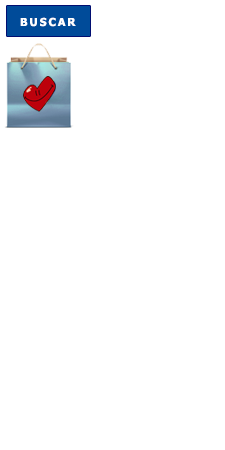
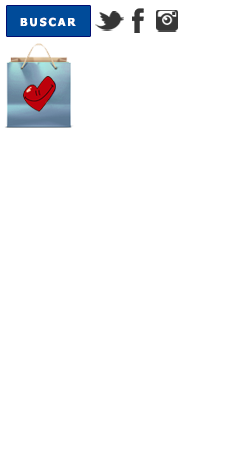
index aacc finalizado

Changed region(s): [[0.6844, 0.0, 0.8089, 0.0933], [0.4356, 0.0, 0.56, 0.0933], [0.5911, 0.0, 0.6533, 0.0933]]

diff --git a/aacc/arquivos/css-aacc-general.css b/aacc/arquivos/css-aacc-general.css
@@ -6,11 +6,12 @@
 /* CONTAINER */
 
 /* clearfix */
+
 .clearfix:before, .clearfix:after { content: ""; display: table; }
 .clearfix:after { clear: both; }
 .clearfix { *zoom: 1; }
-/* end clearfix */
 
+/* end clearfix */
 
 body{font-family: Tahoma, 'sans-serif'; font-size: 12px;}
 h1{font-size: 20px;}
@@ -20,13 +21,12 @@ h4{font-size: 11px;}
 
 a{color:#343434; text-decoration: none;}
 
-.container{background: url('bg-header-top.jpg') no-repeat center top;}
+.container-bg-top{background: url('bg-header-top.jpg') no-repeat center top;}
 .icons{background: url('icons.png') no-repeat;}
-
 
 /* HEADER */
 
-.header{padding: 30px 0; width: 1000px; margin:0 auto;}
+.header{padding: 30px 0 10px; width: 990px; margin:0 auto;}
 .header-content{margin-bottom: 20px;}
 	.header-content .logo-header{float: left;}
 		.logo-header .logo{}	
@@ -46,9 +46,9 @@ a{color:#343434; text-decoration: none;}
 
 /* nav header */
 
-.navegador{width: 1000px; margin: 0 auto;}
+.navegador{width: 990px; margin: 0 auto;}
 .navegador li{float: left;}
-.navegador a{padding: 7px 27px; color: #fff; text-transform: uppercase; font-size: 14px; float: left; margin: 0 2px;}
+.navegador a{padding: 7px 26px; color: #fff; text-transform: uppercase; font-size: 14px; float: left; margin: 0 2px;}
 .navegador .first{margin-left: 0;}
 .navegador .last{margin-right: 0; padding: 7px 31px;}
 .navegador .last{padding/**\*/:7px 29px\9;}
@@ -59,7 +59,52 @@ a{color:#343434; text-decoration: none;}
 .navegador .voluntarios{background: #6a47ba;}
 .navegador .blog{background: #ca51c6;}
 
-
 /* content */
 
-.content{ margin:0 auto; width: 1000px; padding: 30px 0;}
+.content{ margin:0 auto; width: 990px; padding: 0 0 30px;}
+	.banner-header{width: 990px;}
+	.vitrine{margin: 30px 0;}
+		.tab-navegacao{}
+		.tab-navegacao li{float: left; padding: 6px 159px 6px 62px; text-align: left; text-transform: uppercase; font-weight: bold; cursor: pointer;}
+		.tab-navegacao li.center{margin:0 6px;}
+		.tab-navegacao li.center{margin/**\*/:0 5px\9;} /* IE */
+		.tab-navegacao .mochila{background: #d2e1f1; border: 1px solid #004b99;}
+		.tab-navegacao .livros-revistas{background: #fcf8f5; border: 1px solid #f5dfcf;}
+		.tab-navegacao .outros-produtos{background: #f3faf3; border: 1px solid #e8ebcc;}
+
+		.content-vitrine{margin-top: 50px;}
+			.content-vitrine .list-product{float: left; text-align: center; margin-right: 54px;}
+			.content-vitrine .last{margin-right: 0;}	
+				.content-vitrine .image{margin-bottom: 25px;}
+				.content-vitrine .name-product{ font-size: 13px; font-weight: bold; text-transform: uppercase; margin-bottom: 5px;}
+				.content-vitrine .name-product a{color:#004b99;}
+				.content-vitrine .price-conditions{color:#464646; font-size: 11px; font-weight: bold;}
+
+/* footer */
+
+.footer{background: url('bg-footer.png') repeat-x center bottom;}
+.wrapper-footer{ width: 990px; margin: 0 auto; padding: 30px 0; height: 404px;}
+	.wrapper-footer .navegador-footer{margin-top: 120px; margin-bottom: 20px;}
+	.navegador-footer li{color: #373737;}
+	.navegador-footer .institucional{float: left; text-align: center; width: 246px;}
+	.navegador-footer .informacoes{float: left; text-align: center; width: 246px;}
+	.navegador-footer .fale-conosco{float: left; text-align: center; width: 246px;}
+	.navegador-footer .certificados{float: left; text-align: center; width: 246px;}
+		.certificados .icon-certificados{background: url('certificados.png') no-repeat; width: 135px; height: 55px; margin-left: 60px;}
+	.navegador-footer .links{padding-top: 20px; border-right: 2px solid #d7e89d; height: 120px;}
+	.navegador-footer .links .atendimento{ margin-bottom: 10px;}
+	.navegador-footer .links .email{ margin-bottom: 20px;}
+	.links .social-network-footer{margin-top: 10px; text-align: center; float: left; margin-left: 80px;}
+	.links .social-network-footer span{float: left; margin-right: 5px; width: 25px; height: 25px;}
+		.links .tw{background-position: -96px -9px; height: 25px; width: 30px; text-indent: -9999px; float: left;}
+		.links .fb{background-position: -125px -9px; height: 25px; width: 30px;text-indent: -9999px; float: left;}
+		.links .inst{background-position: -154px -9px; height: 25px; width: 30px;text-indent: -9999px; float: left;}
+	.navegador-footer .last{padding-top: 20px; border-right:none;}
+	.navegador-footer span{display: block; margin-bottom: 5px;}
+	.navegador-footer a:hover{text-decoration: underline;}
+	.title-nav-footer{text-transform: uppercase; letter-spacing: 0.1em; font-size: 14px; color: #373737;}
+	.formas-pagamento{padding: 0 60px;}
+		.formas-pagamento .bandeiras{background:url('bandeiras.jpg') no-repeat left; text-indent: -9999px; width: 660px; height: 40px; float: left; margin-top: 25px;}
+		.formas-pagamento .desenvolvedores{text-indent: -9999px; float: right; width: 130px; margin-top: 25px; height: 40px;}
+		.formas-pagamento .desenvolvedores .uber{background:url('desenvolvedores.jpg') no-repeat left;background-position: 0px 0px; text-indent: -9999px; height: 35px; width: 50px; float: left; margin-top: 5px;}
+		.formas-pagamento .desenvolvedores .vtex{background:url('desenvolvedores.jpg') no-repeat left;background-position: -63px 0px; text-indent: -9999px; height: 35px; width: 67px; float: right; margin-top: 5px;}

diff --git a/aacc/index.html b/aacc/index.html
@@ -19,7 +19,7 @@
 </head>
 <body>
 	<!-- start container -->
-	<div class="container">
+	<div class="container container-bg-top">
 		<!-- start header -->
 		<div class="header clearfix">
 			<ul class="header-content clearfix">
@@ -56,11 +56,93 @@
 		</div><!-- end header -->
 		<!-- start content -->
 		<div class="content clearfix">
-			
+			<div class="banner-header clearfix">
+				<img src="arquivos/banner-aacc.jpg" alt="" width="990" height="427" />
+			</div>
+			<div class="vitrine clearfix">
+				<ul class="tab-navegacao clearfix">
+					<li class="mochila">Mochilas</li>
+					<li class="livros-revistas center">Livros e Revistas</li>
+					<li class="outros-produtos">Outros Produtos</li>
+				</ul>
+				<ul class="content-vitrine clearfix">
+					<li class="list-product">
+						<div class="image"><a href="#"><img src="arquivos/image-product1.jpg" alt="" /></a></div>
+						<div class="name-product"><a href="#">Mochila AACC Modelo</a></div>
+						<div class="price-conditions"><a href="#">R$ 89,00 ou 3x de R$30,00</a></div>
+					</li>
+					<li class="list-product">
+						<div class="image"><a href="#"><img src="arquivos/image-product1.jpg" alt="" /></a></div>
+						<div class="name-product"><a href="#">Mochila AACC Modelo</a></div>
+						<div class="price-conditions"><a href="#">R$ 89,00 ou 3x de R$30,00</a></div>
+					</li>
+					<li class="list-product">
+						<div class="image"><a href="#"><img src="arquivos/image-product1.jpg" alt="" /></a></div>
+						<div class="name-product"><a href="#">Mochila AACC Modelo</a></div>
+						<div class="price-conditions"><a href="#">R$ 89,00 ou 3x de R$30,00</a></div>
+					</li>
+					<li class="list-product last">
+						<div class="image"><a href="#"><img src="arquivos/image-product1.jpg" alt="" /></a></div>
+						<div class="name-product"><a href="#">Mochila AACC Modelo</a></div>
+						<div class="price-conditions"><a href="#">R$ 89,00 ou 3x de R$30,00</a></div>
+					</li>
+				</ul>
+			</div>
 		</div><!-- end container -->
 		<!-- start footer -->
-		<div class="footer">
-			
+		<div class="footer bg-footer">
+			<div class="wrapper-footer">
+				<ul class="navegador-footer clearfix">
+					<li class="institucional">
+						<h2 class="title-nav-footer">Institucional</h2>
+						<div class="links">
+							<span><a href="#">Sobre a AACC</a></span>
+							<span><a href="#">Projetos</a></span>
+							<span><a href="#">Parceiros</a></span>
+							<span><a href="#">Doações</a></span>
+						</div>
+					</li>
+					<li class="informacoes">
+						<h2 class="title-nav-footer">Informações úteis</h2>
+						<div class="links">
+							<span><a href="#">Como comprar</a></span>
+							<span><a href="#">Trocas e devoluções</a></span>
+							<span><a href="#">Perguntas frequentes</a></span>
+							<span><a href="#">Acompanhe seus pedidos</a></span>
+							<span><a href="#">Política de Privacidade</a></span>
+							<span><a href="#">Pagamento e Parcelamento</a></span>
+							<span><a href="#">Política de Entrega</a></span>
+						</div>
+					</li>
+					<li class="fale-conosco">
+						<h2 class="title-nav-footer">Fale conosco</h2>
+						<div class="links">
+							<span class="atendimento"><a href="#">atendimento: (11) 1234 1234</a></span>
+							<span class="email"><a href="#">e-mail: contato@aacc.com.br</a></span>
+							<h2 class="title-nav-footer">Mídias Sociais</h2>
+							<span class="social-network-footer">
+								<span><a href="#"  class="icons tw" title="Twitter">Twitter</a></span>
+								<span><a href="#" class="icons fb" title="Facebook">Facebook</a></span>
+								<span><a href="#" class="icons inst" title="Instegram">Instagram</a></span>
+							</span>
+						</div>
+					</li>
+					<li class="certificados">
+						<h2 class="title-nav-footer">Certificados</h2>
+						<div class="links last">
+							<span class="icon-certificados"></span>
+						</div>
+					</li>
+				</ul>
+				<div class="formas-pagamento clearfix">
+					<h2 class="title-nav-footer">Formas de Pagamento</h2>
+					<div class="bandeiras">Visa, Credicard, Mastercard, Diners Club, Hipercard, American express, B! cash, Paypal</div>
+					<div class="desenvolvedores">
+						<a href="#" class="uber">Uber Digital</a>
+						<a href="#" class="vtex">Vtex</a>
+					</div>
+				</div>
+			</div>
 		</div><!-- end footer -->
 	</div><!-- end container -->
 </body>
